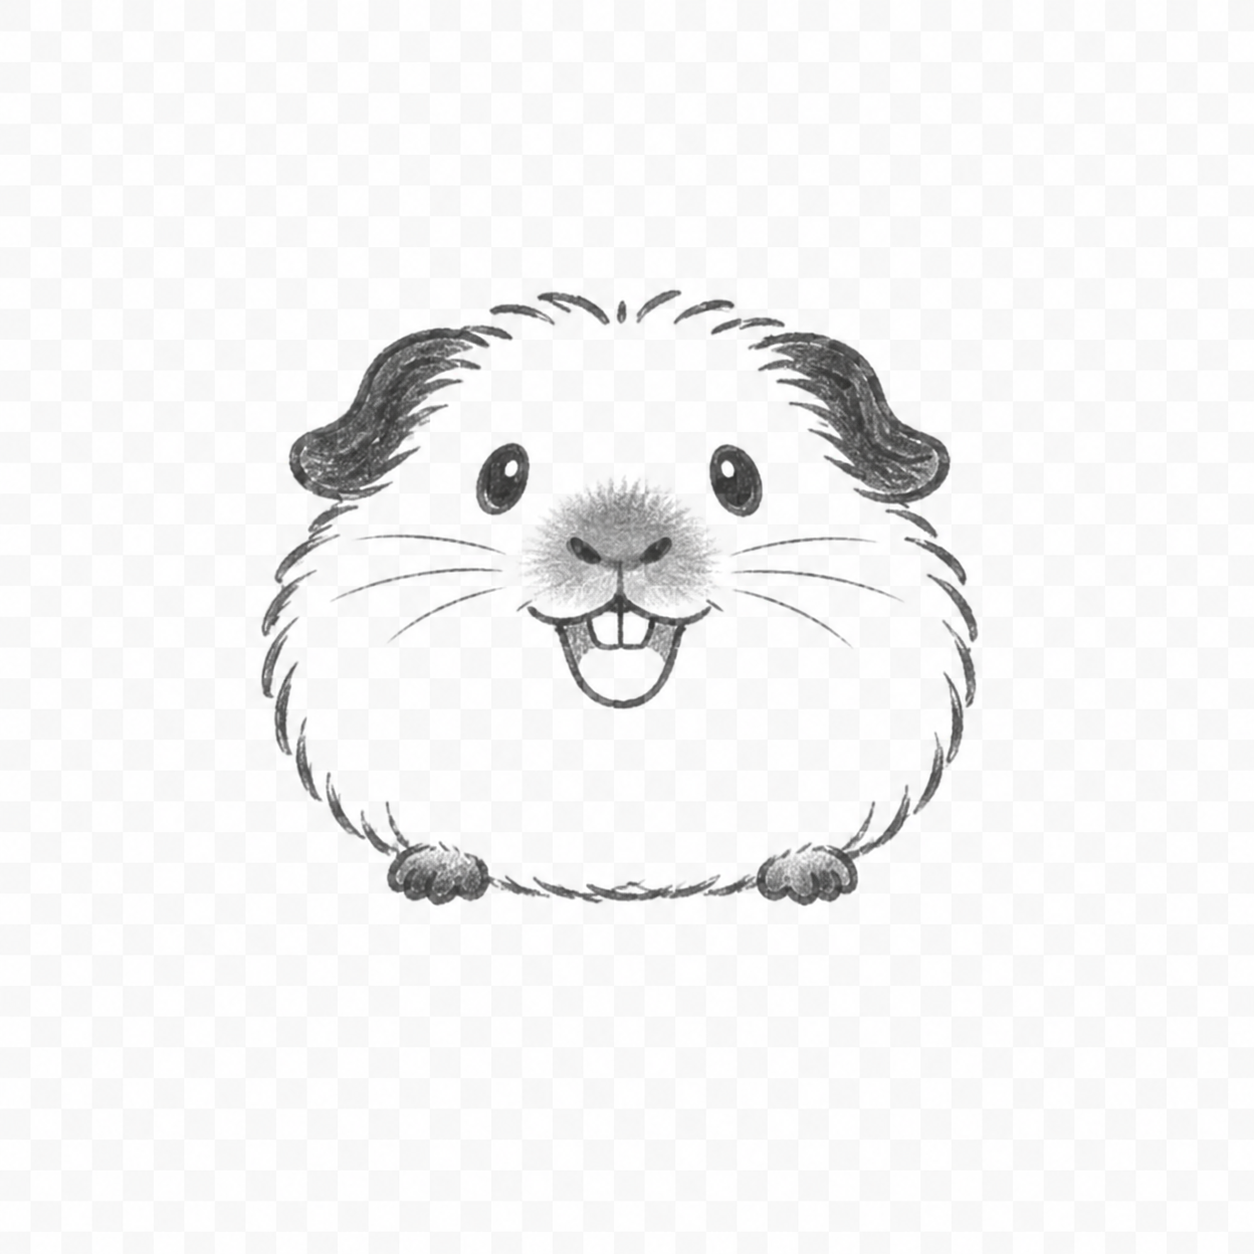
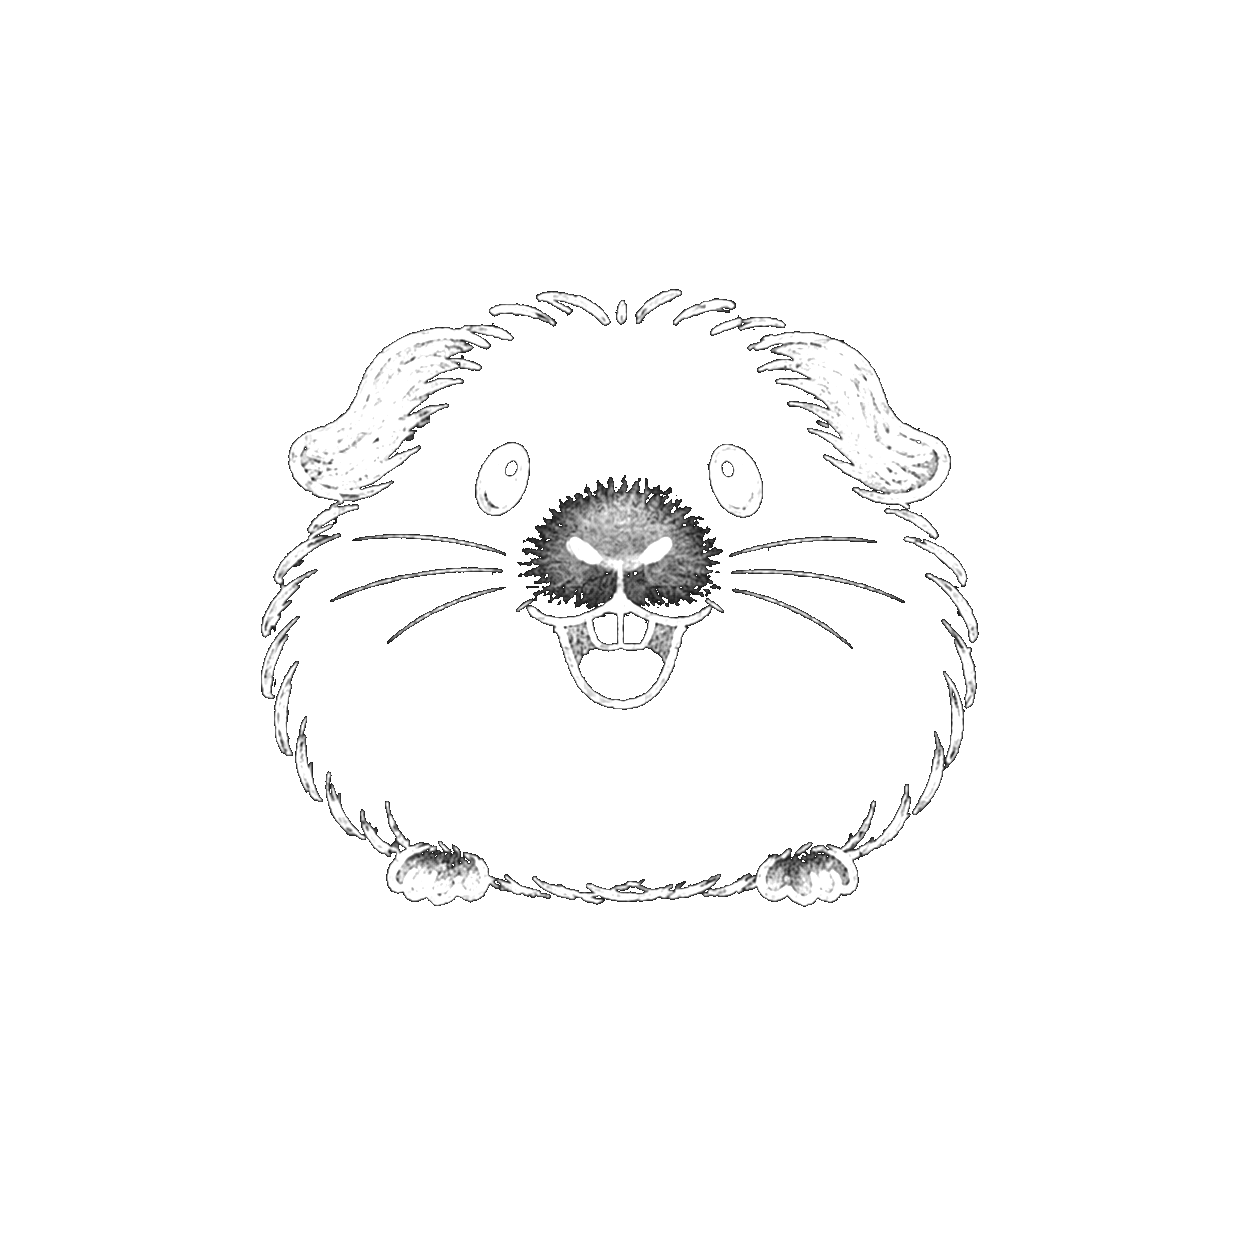
荷兰猪图标放大到64px，增强对比度并抠除白底

diff --git a/intern/ai/src/components/ScrollGuide.tsx b/intern/ai/src/components/ScrollGuide.tsx
@@ -42,7 +42,7 @@ export default function ScrollGuide() {
   return (
     <div className="fixed right-5 md:right-8 top-1/2 -translate-y-1/2 z-40 hidden lg:flex flex-col items-center">
       {/* Vertical line */}
-      <div className="relative w-[1.5px] h-72 bg-[var(--morandi-border)]/40">
+      <div className="relative w-[1.5px] h-96 bg-[var(--morandi-border)]/40">
         <motion.div
           className="absolute top-0 left-0 w-full bg-[var(--morandi-accent)]/30 origin-top"
           style={{ scaleY: smoothProgress, height: '100%' }}
@@ -67,8 +67,8 @@ export default function ScrollGuide() {
               alt=""
               className={`transition-all duration-500 object-contain ${
                 i === activeIndex
-                  ? 'w-12 h-12 opacity-100'
-                  : 'w-10 h-10 opacity-60 group-hover:opacity-100'
+                  ? 'w-16 h-16 opacity-100'
+                  : 'w-14 h-14 opacity-50 group-hover:opacity-90'
               }`}
             />
             {/* Label on hover */}
@@ -79,7 +79,7 @@ export default function ScrollGuide() {
             {i === activeIndex && (
               <motion.span
                 layoutId="activeGlow"
-                className="absolute w-14 h-14 rounded-full border border-[var(--morandi-accent)]/20"
+                className="absolute w-20 h-20 rounded-full border border-[var(--morandi-accent)]/20"
                 transition={{ type: 'spring', stiffness: 300, damping: 30 }}
               />
             )}
